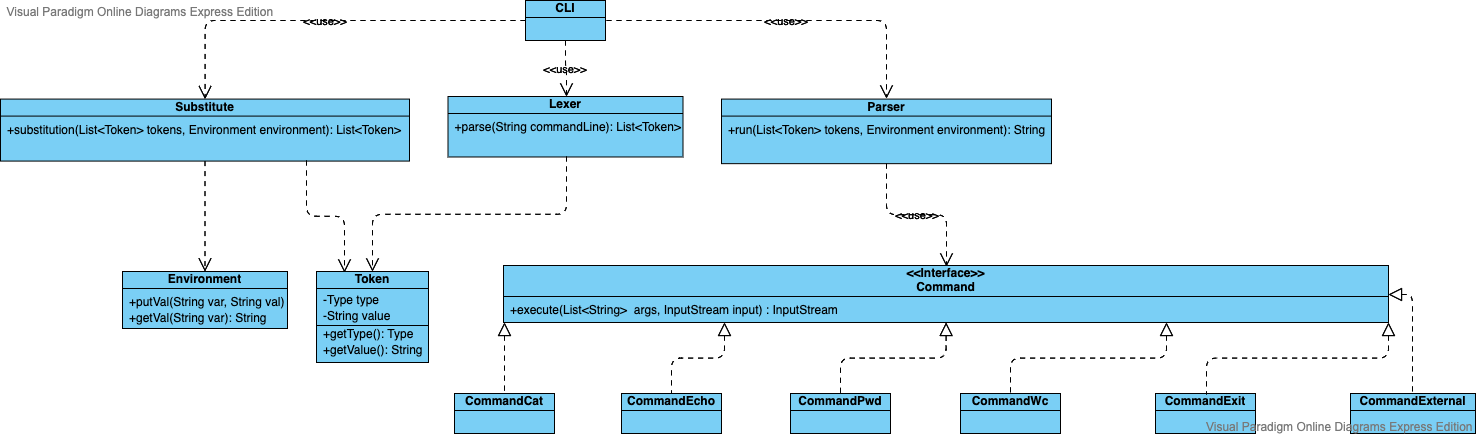
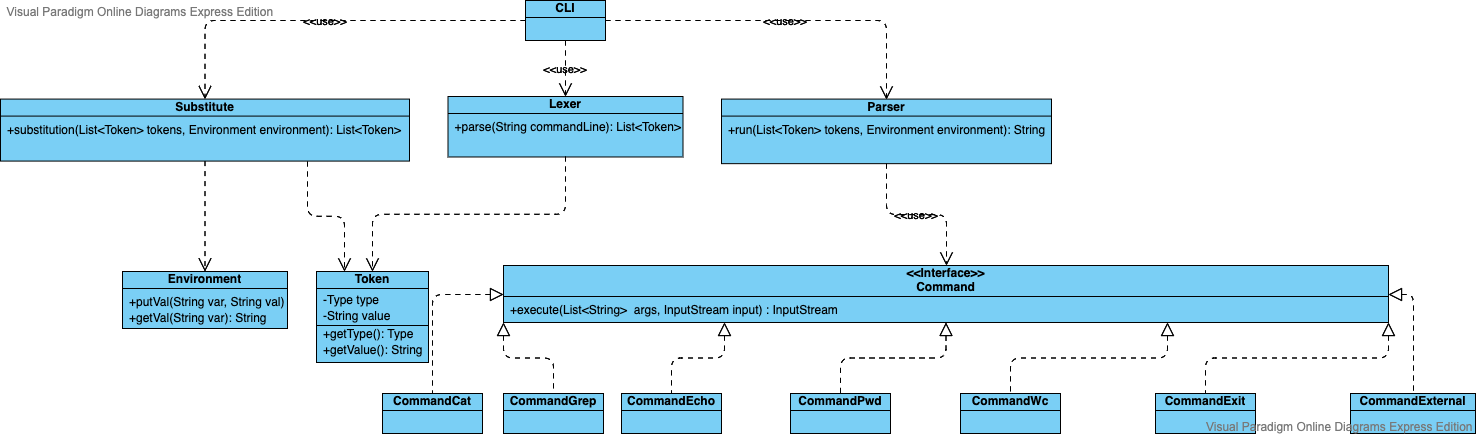
update README & UMLClassDiagram

diff --git a/README.md b/README.md
@@ -4,6 +4,7 @@
  - echo — вывести на экран свой аргумент (или аргументы);
  - wc [FILE] — вывести количество строк, слов и байт в файле;
  - pwd — распечатать текущую директорию;
+ - grep - ищет подстроку в файле или входном потоке
  - exit — выйти из интерпретатора
  - Внешние команды  
 Также поддерживаются одинарные и двойные кавычки, присвоение и подстановка.   
@@ -11,3 +12,5 @@
 Класс Environment хранит все переменные окружения.  
 Интерфейс Command, позволяет добавлять новые команды. Выполняет команду с переданными аргументами и InputStream'ом, и выводит результат в  InputStream.  
 ![alt text](UMLClassDiagram.png)
+
+В качестве библиотеки для разбора командной строки был выбран JCommander. Он позволяет всего в одно строку добавлять новый параметр командной строки, берет на себя вопрос инициализации полей(присвоение им значения из командной строки) и проверку значений аргументов. Кроме JCommander рассматривалась библиотека common-cli. Его сложнее использовать и он имеет больше функций, которые в этом задании не нужны.  
